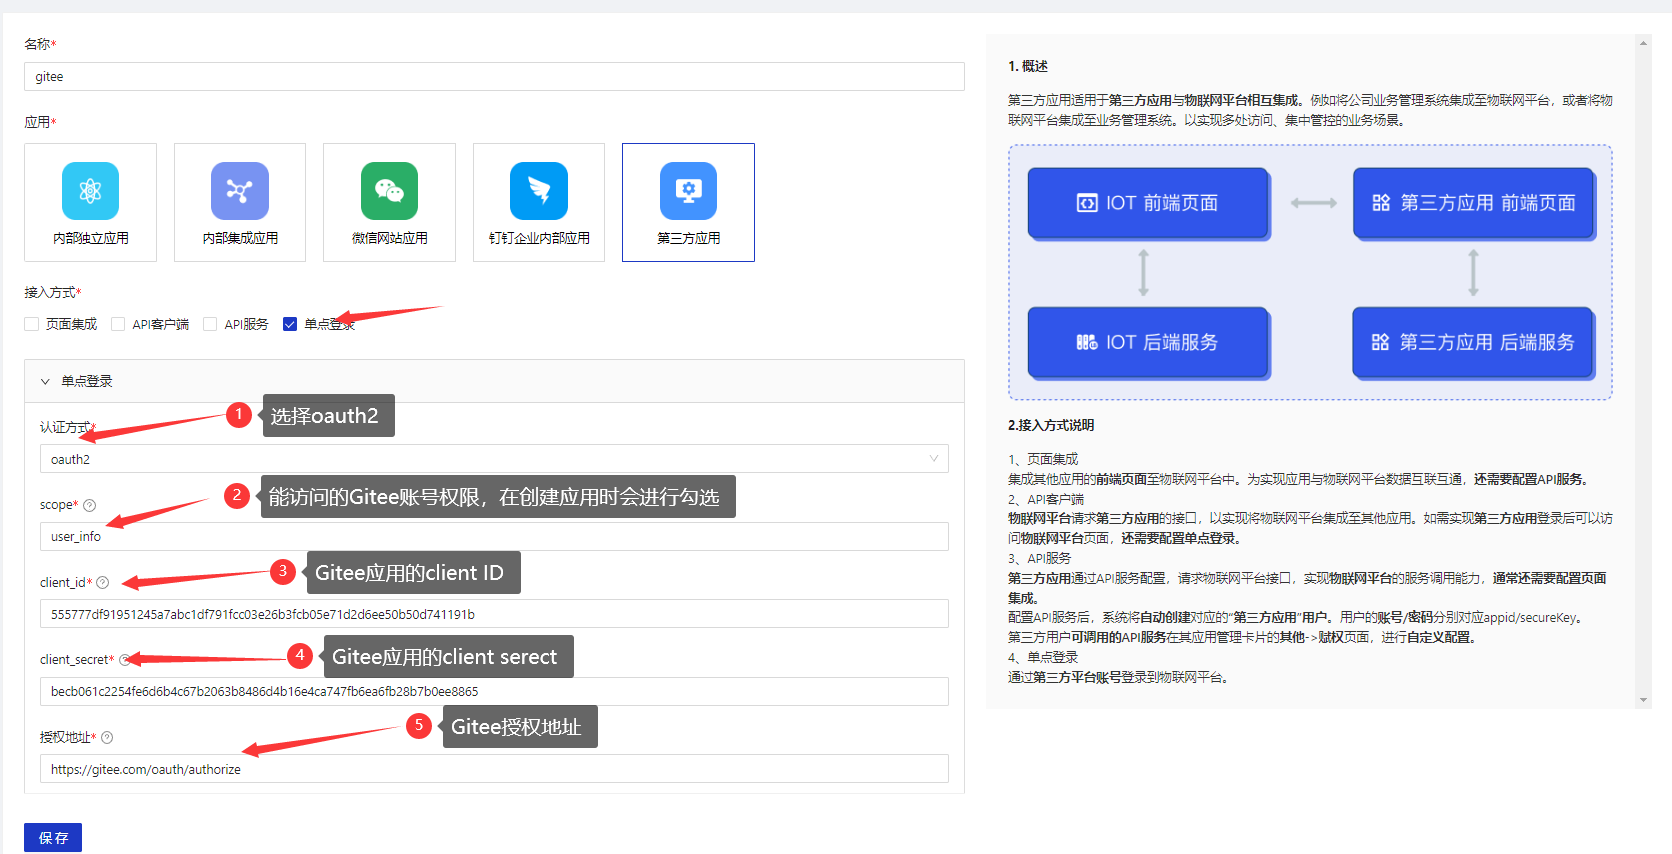
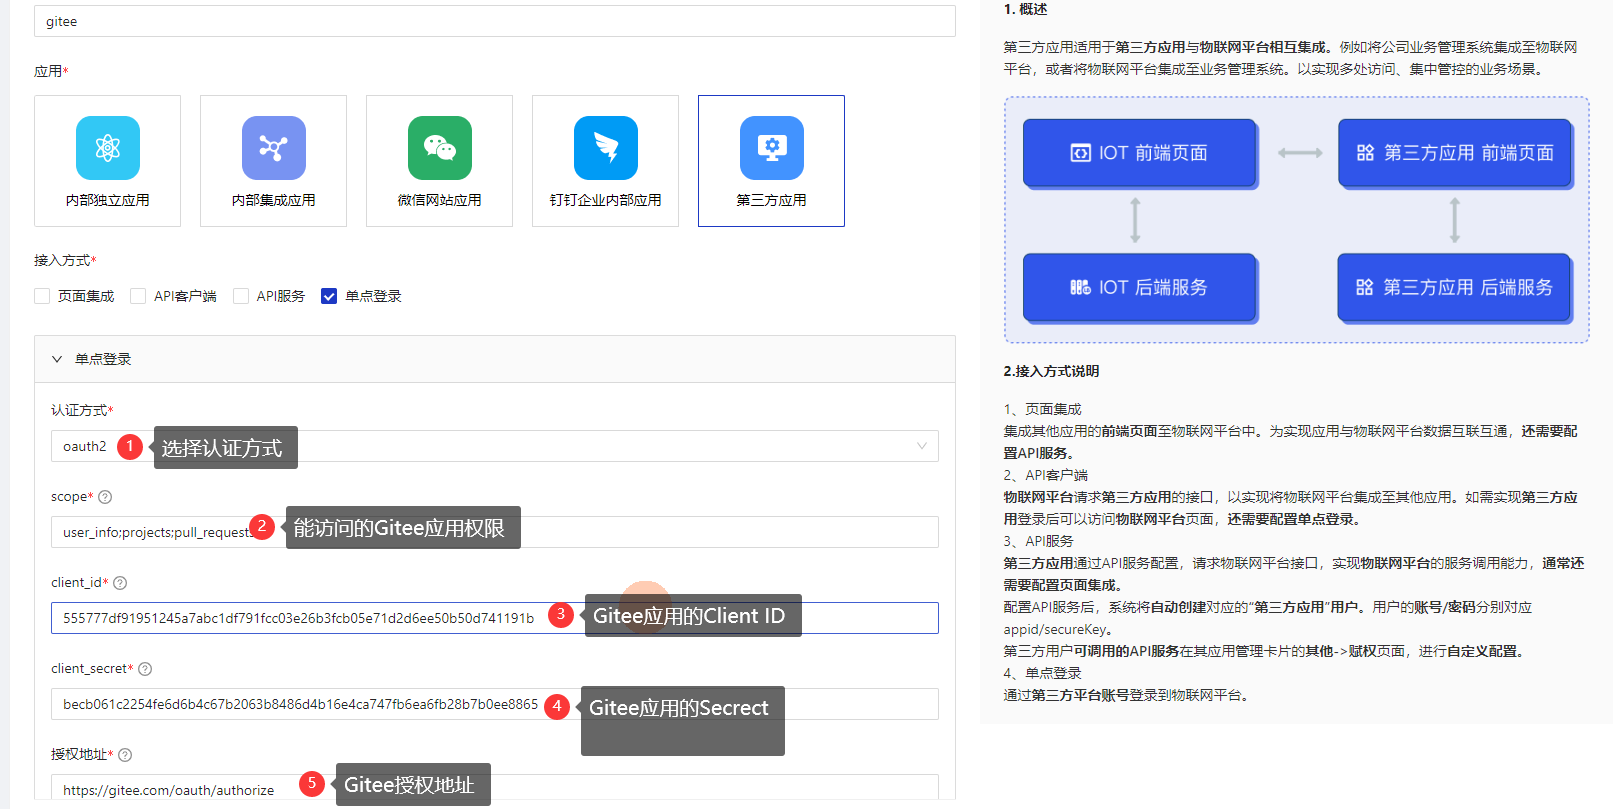
修改应用管理第三方单点登录流程

diff --git a/Best_practices/application_management.md b/Best_practices/application_management.md
@@ -10,8 +10,6 @@
 </div>
 
 ## 指导介绍
-
-## 指导介绍
   <p>1. <a href="/Best_practices/application_management.html#名词解释" >名词解释</a></p>
   <p>2. <a href="/Best_practices/application_management.html#内部独立应用" >内部独立应用</a></p>
   <p>3. <a href="/Best_practices/application_management.html#内部集成应用" >内部集成应用</a></p>
@@ -22,6 +20,7 @@
 
 ## 问题指引
    <p>1. <a href="/Best_practices/application_management.html#存在错误-无效的登录回调地址" >存在错误,无效的登录回调地址</a></p>
+   <p>2. <a href="Best_practices/application_management.html#单点登录时-前端出现invalid-character" >单点登录时-前端出现invalid-character</a></p>
 
 ## 名称解释
 
@@ -123,7 +122,15 @@
  接入方式选择API服务时将在对应应用的卡片中出现赋权、查看API按钮。
 </div>
 
-## 单点登录（本文档以Gitee为例）
+## 单点登录
+<div class='explanation info'>
+  <p class='explanation-title-warp'> 
+    <span class='iconfont icon-tishi explanation-icon'></span>
+    <span class='explanation-title font-weight'>提示</span>
+  </p>
+   本案例以Gitee举例
+</div>
+
 ### 操作步骤
 #### 1.登录Gitee-账号设置-第三方应用-点击创建应用
 
@@ -132,7 +139,7 @@
     <span class='iconfont icon-bangzhu explanation-icon'></span>
     <span class='explanation-title font-weight'>说明</span>
   </p>
-   应用回调地址中的appId为平台应用的id，先随意填写，创建平台应用后需要进行更改
+   应用回调地址中的{appId}参数为平台应用的id，先随意填写，创建平台应用后需要进行更改
 </div>
 
    ![创建第三方应用](./img/application-management-sso-01.png)
@@ -151,6 +158,14 @@
   
   [Gitee文档相关资料](https://gitee.com/api/v5/swagger#/getV5User)
   可以获取oAuth文档：授权地址、token地址和API文档：获取授权用户的资料地址
+  如果用户使用自己的与万物系统，可以参照自己的系统定义操作
+<div class='explanation primary'>
+  <p class='explanation-title-warp'>
+    <span class='iconfont icon-bangzhu explanation-icon'></span>
+    <span class='explanation-title font-weight'>说明</span>
+  </p>
+  单点登录的scope配置多个gitee权限时，需要在输入法切换成英文的状态下，使用分号（;）进行分割
+</div>
 
    ![我的应用](./img/application-management-sso-03.png)
    ![我的应用](./img/application-management-sso-04.png)
@@ -182,3 +197,15 @@
   </p>
 <p>Q：存在错误,无效的登录回调地址</p>
 <p>A：查看Gitee回调地址是否是代理地址(即：前端端口9000/api方式/）</p></div>
+
+### 单点登录时，前端出现<code>Invalid character '；'</code>
+
+<div class='explanation warning'>
+  <p class='explanation-title-warp'>
+    <span class='iconfont icon-bangzhu explanation-icon'></span>
+    <span class='explanation-title font-weight'>问题1</span>
+  </p>
+<p>Q：<code>{"message":"Invalid character '；' for QUERY_PARAM in \"user_info；projects；pull_requests\"","status":400,
+"code":"illegal_argument","timestamp":1673317514494}</code></p>
+<p>A：单点登录的scope配置多个权限范围时，需要输入法在英文的状态前提下，输入分号</p></div>
+
